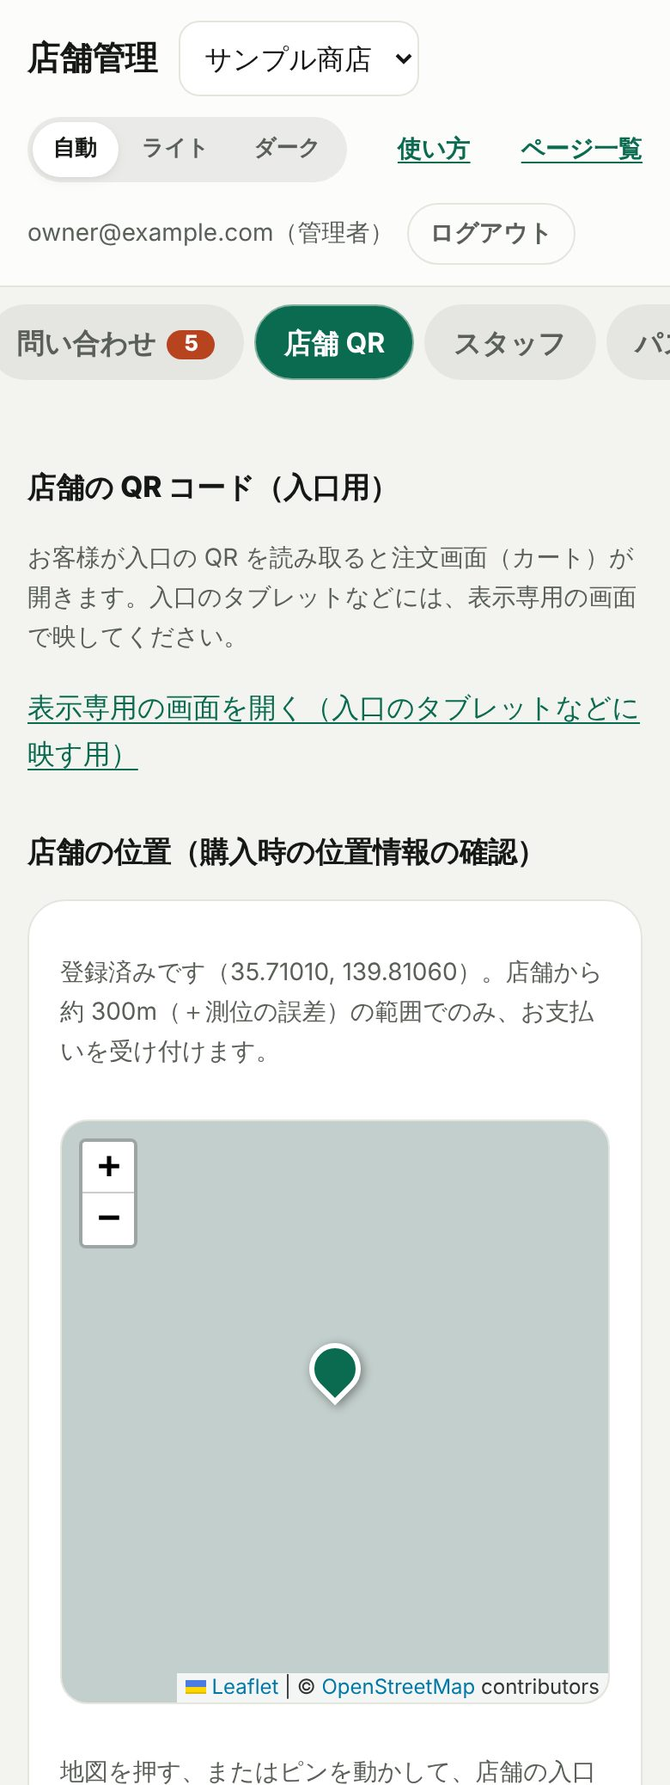
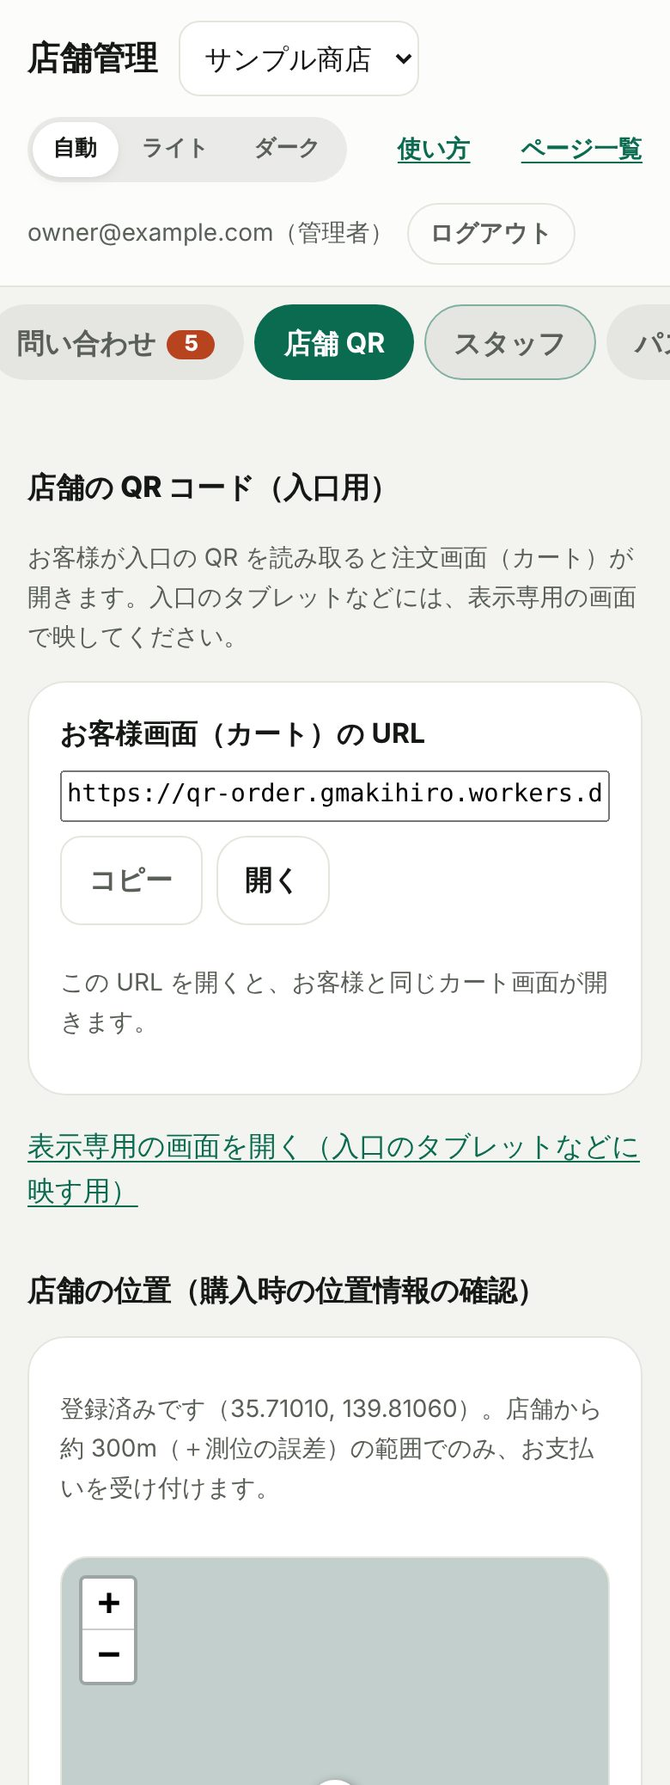
管理画面の「店舗 QR」に、お客様画面（カート）の URL を表示
- URL の表示とコピー・開くボタンを追加
- QR コードの定期更新が有効なときは、いま使える合言葉付きの URL をサーバーから取得し、自動で更新する（/api/staff/stores/:id/customer-url、ログインが必要）

Claude-Session: https://claude.ai/code/session_012T4cK7u5KBQXo3hkoPuLVW

diff --git a/src/guide-staff.html b/src/guide-staff.html
@@ -17,7 +17,7 @@
 <li><a href="#setup">はじめて使うとき（セットアップ）</a></li><li><a href="#login">ログイン</a></li><li><a href="#layout">画面の見方</a></li><li><a href="#orders">注文を確認する・年齢確認・返金</a></li><li><a href="#products">商品を登録する</a></li><li><a href="#qr">店舗の QR コード</a></li><li><a href="#accounts">スタッフを追加する（管理者）</a></li><li><a href="#passkeys">自分のパスキー</a></li><li><a href="#returns">返品・交換の申請を処理する</a></li><li><a href="#chat">お問い合わせに答える</a></li><li><a href="#roles">権限の違い</a></li><li><a href="#trouble">困ったときは</a></li></ol></nav>
 <h2 id="setup">1. はじめて使うとき（セットアップ）</h2>
 <p>ログインには、パスワードではなく<strong>パスキー</strong>（端末の指紋・顔・画面ロック）を使います。最初の 1 回だけ、メールで本人確認をしてからパスキーを登録します。管理者にメールアドレスを登録してもらってから、次の手順を行ってください。</p>
-<section class="step"><div class="step-text"><h3><span class="num">1</span>メールアドレスを入力する</h3><p><code>/staff/setup</code> を開き、登録されているメールアドレスを入力して「確認コードを送る」を押します。</p></div><div class="step-figs"><figure class="shot"><img src="/guide/img/s1-setup-email.jpg" width="780" height="1560" alt="メールアドレスの入力" loading="lazy"><figcaption>メールアドレスの入力</figcaption></figure></div></section><section class="step"><div class="step-text"><h3><span class="num">2</span>メールの確認コードを入力する</h3><p>件名「【店舗管理】確認コード」のメールが届きます。本文に書かれた 6 桁の数字を入力します。</p><ul><li>有効期限は 10 分です。5 回間違えると無効になるので、その場合は送り直してください。</li><li>届かないときは、迷惑メールフォルダと、アドレスの入力間違いを確認してください。</li><li>登録されていないアドレスには、メールは届きません。</li></ul></div><div class="step-figs"><figure class="shot"><img src="/guide/img/s2-setup-code.jpg" width="780" height="1560" alt="確認コードの入力" loading="lazy"><figcaption>確認コードの入力</figcaption></figure></div></section><section class="step"><div class="step-text"><h3><span class="num">3</span>パスキーを登録する</h3><p>「この端末にパスキーを登録する」を押すと、端末が指紋・顔・画面ロックでの確認を求めます。完了すると、そのまま管理画面に入ります。</p><ul><li>5 分以内に完了してください。</li><li>登録が済んだアドレスは、確認コードではログインできなくなります。次回からはパスキーだけを使います。</li></ul></div><div class="step-figs"><figure class="shot"><img src="/guide/img/s3-setup-passkey.jpg" width="780" height="1560" alt="パスキーの登録" loading="lazy"><figcaption>パスキーの登録</figcaption></figure></div></section><h2 id="login">2. ログイン</h2><section class="step"><div class="step-text"><h3><span class="num">1</span>パスキーでログインする</h3><p><code>/staff/login</code> を開き、「パスキーでログイン」を押して、指紋・顔・画面ロックで確認します。</p><ul><li>ログインは 12 時間で切れます。</li><li>別の端末で使いたいときは、「8. 自分のパスキー」の手順で端末を追加してください。</li></ul></div><div class="step-figs"><figure class="shot"><img src="/guide/img/s4-login.jpg" width="780" height="1560" alt="ログインの画面" loading="lazy"><figcaption>ログインの画面</figcaption></figure></div></section><h2 id="layout">3. 画面の見方</h2><section class="step"><div class="step-text"><h3><span class="num">★</span>メニューの切り替え</h3><p>メニューは「注文」「商品」「返品」「問い合わせ」「店舗 QR」「スタッフ」「パスキー」の 7 つです（「スタッフ」は管理者だけに表示されます）。</p><ul><li><strong>スマートフォン</strong>：上部のタブを押すか、画面を左右にフリックして切り替えます。</li><li><strong>パソコン</strong>：左側のメニューから選びます。一覧は複数の列で表示されます。</li><li>上部で店舗と、表示の明るさ（自動・ライト・ダーク）を切り替えられます。</li><li>「ホーム画面に追加」を押すと、アプリのようにアイコンから起動できます。</li></ul></div><div class="step-figs"><figure class="shot wide"><img src="/guide/img/s14-pc-orders.jpg" width="1280" height="800" alt="パソコンでの表示（注文）" loading="lazy"><figcaption>パソコンでの表示（注文）</figcaption></figure></div></section><h2 id="orders">4. 注文を確認する・年齢確認・返金</h2><p>お客様がお支払いを済ませた注文が、新しい順に並びます。商品の受け渡しの操作はありません。注文番号は毎日 001 から始まります。</p><section class="step"><div class="step-text"><h3><span class="num">1</span>年齢確認をする</h3><p>お酒・たばこなど年齢確認が必要な商品を含む注文は、一番上の「年齢確認が必要な注文」に表示され、メニューに件数が付きます。</p><ol><li>お客様の画面（年齢確認待ち）の注文番号と、一覧の番号を照らし合わせる。</li><li>身分証などで、20 歳以上であることを確認する。</li><li>「年齢を確認した」を押す。お客様の画面が「お支払い完了」に変わります。</li></ol><p>確認できない場合は販売できません。管理者が返金してください。</p></div><div class="step-figs"><figure class="shot"><img src="/guide/img/s5b-orders-age.jpg" width="780" height="1560" alt="年齢確認が必要な注文が上に出ます" loading="lazy"><figcaption>年齢確認が必要な注文が上に出ます</figcaption></figure></div></section><section class="step"><div class="step-text"><h3><span class="num">2</span>返金する（管理者）</h3><p>注文の「返金」を押し、金額を入力して「返金する」を押します。</p><ul><li>最初は、返金できる全額が入っています。一部だけ返す場合は、テンキーで金額を変えてください。</li><li>返金は取り消せません。決済に使われた支払方法へ返金されます。</li><li>全額を返し終えると、その注文は「返金済」になります。</li></ul></div><div class="step-figs"><figure class="shot"><img src="/guide/img/s6-refund.jpg" width="780" height="1560" alt="返金の金額を入力する" loading="lazy"><figcaption>返金の金額を入力する</figcaption></figure></div></section><h2 id="products">5. 商品を登録する</h2><p>商品の登録・編集・削除は管理者が行います。「有効／無効」の切り替え（品切れのとき）は、スタッフもできます。</p><section class="step"><div class="step-text"><h3><span class="num">1</span>登録フォームを開く</h3><p>「商品」のメニューを開くと、上に登録フォーム、下に商品一覧があります。</p><ul><li>入力するのは、バーコード（任意）、商品名、価格（税込）、税率、年齢確認が必要かどうかです。</li><li>価格は、画面のテンキーで入力します。50 円以上で設定してください。</li><li>持ち帰りの飲食料品などは、税率 8% を選びます。</li></ul></div><div class="step-figs"><figure class="shot"><img src="/guide/img/s7-product-form.jpg" width="780" height="1560" alt="商品の登録フォーム" loading="lazy"><figcaption>商品の登録フォーム</figcaption></figure></div></section><section class="step"><div class="step-text"><h3><span class="num">2</span>バーコードを読み取る</h3><p>「カメラで読み取る」を押し、商品のバーコードを明るい枠の中に写します。読み取ると音が鳴り、自動で閉じます。</p><ul><li>読み取りに成功すると、<strong>それまで入力していた商品名・価格などはすべて消えます</strong>。</li><li>線が読めないときは、下の数字を大きく写すと読み取れます。</li><li>数字を手で入力することもできます。</li></ul></div><div class="step-figs"><figure class="shot"><img src="/guide/img/s8-barcode-scan.jpg" width="780" height="1560" alt="バーコードの読み取り" loading="lazy"><figcaption>バーコードの読み取り</figcaption></figure></div></section><section class="step"><div class="step-text"><h3><span class="num">3</span>商品名と価格を入れて登録する</h3><p>商品情報が見つかった場合は、商品名が自動で入ります。見つからない場合は手で入力します。価格と税率を確認して「登録する」を押します。</p><ul><li>自動で入った商品名は、必ず確認して直してください（まとめ売りの名前などが入ることがあります）。</li><li>価格は自動では入りません。</li><li>登録済みのバーコードを読んだときは、「この商品を編集する」ボタンが出ます。</li></ul></div><div class="step-figs"><figure class="shot"><img src="/guide/img/s9-barcode-result.jpg" width="780" height="1560" alt="読み取り後に商品名と価格を入力" loading="lazy"><figcaption>読み取り後に商品名と価格を入力</figcaption></figure></div></section><section class="step"><div class="step-text"><h3><span class="num">4</span>商品一覧を使う</h3><p>登録した商品が、QR コードと一緒に並びます。</p><ul><li><strong>無効にする／有効にする</strong>：無効にした商品は、お客様が読み取ってもカートに入りません。</li><li><strong>編集</strong>：商品名・価格などを変えます。QR コードは変わりません。</li><li><strong>削除</strong>：元に戻せません。過去の注文の記録には影響しません。</li><li><strong>テスト用カート</strong>：一覧の上の「テスト用カート」で「QR をスキャンする」を押してから、商品の QR コードを押すと、その QR を実際に読み取ってカートに入れます。お客様のカートと同じ決まり（無効の商品は入らない、同じ商品は 1 回だけ、数量は「−」「＋」で 20 まで、税率ごとの消費税）を確かめられます。お支払いはできず、注文は作られません。スキャン中でないときに QR を押すと、これまでどおり印刷用に開きます。</li><li>QR コードを押すと、印刷用に大きく開きます。バーコードのない商品は、この QR コードを印刷して売り場に貼ってください。</li></ul></div><div class="step-figs"><figure class="shot"><img src="/guide/img/s10-product-list.jpg" width="780" height="1560" alt="商品一覧" loading="lazy"><figcaption>商品一覧</figcaption></figure><figure class="shot wide"><img src="/guide/img/s15-pc-products.jpg" width="1280" height="800" alt="パソコンでの表示（商品）" loading="lazy"><figcaption>パソコンでの表示（商品）</figcaption></figure></div></section><h2 id="qr">6. 店舗の QR コード</h2><section class="step"><div class="step-text"><h3><span class="num">1</span>入口用の QR コードと、更新の設定</h3><p>お客様が最初に読み取る QR コードです。管理画面には QR コードを表示しません。入口に映すときは、表示専用の画面を使います。</p><ul><li><strong>画面に映す</strong>：「表示専用の画面を開く」で、入口のタブレットなどに大きく映せます。</li><li><strong>QR コードの更新</strong>（管理者）：一定時間ごとに QR コードを新しくできます。有効にすると、古い QR の写真や保存したアドレスからは注文できなくなります。<strong>印刷した QR コードは使えなくなる</strong>ので、表示専用の画面を使ってください。商品のバーコードは、そのまま使えます。</li></ul></div><div class="step-figs"><figure class="shot"><img src="/guide/img/s11-store-qr.jpg" width="780" height="2076" alt="店舗 QR のメニュー（表示専用の画面と更新の設定）" loading="lazy"><figcaption>店舗 QR のメニュー（表示専用の画面と更新の設定）</figcaption></figure></div></section><h2 id="geo">店舗の位置（位置情報の確認）</h2><p>お客様は、お支払いと返品・交換の申し込みのときに、必ず位置情報の確認が必要です。「店舗 QR」のメニューの「店舗の位置」で、管理者が地図から登録します。地図を押すかピンを動かす、住所や店舗名で探す、Google マップ・Apple マップの共有リンク（または「35.7100, 139.8107」の形の座標）を貼り付ける、店内で「この端末の現在地へ」を押す、のどれかでピンを合わせ、「この位置で保存」を押します。登録すると、受け付ける範囲（50m〜1km）の外からはお支払いできなくなります。注文と返品の申し込みには、店舗からの距離が表示されます（位置そのものは保存しません）。屋内は誤差が大きいため、範囲は 200m 以上をおすすめします。</p><h2 id="accounts">7. スタッフを追加する（管理者）</h2><section class="step"><div class="step-text"><h3><span class="num">1</span>メールアドレスと権限を登録する</h3><p>「スタッフ」のメニューで、メールアドレスと権限を選んで「追加する」を押します。本人に案内メールが届くので、「1. はじめて使うとき」の手順でセットアップしてもらいます。</p><ul><li><strong>停止する</strong>：その人はすぐに使えなくなります。退職時などに使います。</li><li><strong>再セットアップ</strong>：端末をなくした・替えたときに押します。古いパスキーが無効になり、メールの確認コードで登録し直せるようになります。</li><li><strong>削除</strong>：アカウントを消します。最後の管理者は、停止・削除できません。</li></ul></div><div class="step-figs"><figure class="shot"><img src="/guide/img/s12-accounts.jpg" width="780" height="2446" alt="スタッフの追加と一覧" loading="lazy"><figcaption>スタッフの追加と一覧</figcaption></figure></div></section><h2 id="passkeys">8. 自分のパスキー</h2><section class="step"><div class="step-text"><h3><span class="num">1</span>予備の端末を登録する</h3><p>ログインに使える端末の一覧です。<strong>2 台以上を登録しておくと、1 台をなくしてもログインできます。</strong></p><ol><li>追加したい端末で、管理画面にログインする。同じ Google アカウントや Apple ID でパスキーが同期されている端末なら、そのままログインできます。</li><li>「パスキー」のメニューで「この端末を追加」を押す。</li></ol><p>同期されていない端末を使いたい場合は、管理者に「再セットアップ」を依頼してください。</p></div><div class="step-figs"><figure class="shot"><img src="/guide/img/s13-passkeys.jpg" width="780" height="1560" alt="登録済みのパスキー" loading="lazy"><figcaption>登録済みのパスキー</figcaption></figure></div></section><h2 id="returns">返品・交換の申請を処理する</h2><p>お客様が、購入完了メールや購入の証明の画面から、商品の不良・誤りなどを申し込むと、「返品」のメニューに届きます（件数がメニューに付き、LINE にも通知が届きます）。お客様のご都合による返品は、受け付けない前提です。</p><section class="step"><div class="step-text"><h3><span class="num">1</span>写真と説明を確認する</h3><p>申請の一覧に、注文番号、理由、対象の商品、説明、写真が並びます。写真を押すと大きく表示されます。</p><ul><li>「商品の全体」と、不具合の箇所・ラベルの写真で、申し出の内容が確認できるかを見ます。</li><li>期限切れの申し出は、ラベルの期限表示を確認します。</li><li>確認と決定は管理者が行います。スタッフは、見るだけです。</li></ul></div><div class="step-figs"><figure class="shot wide"><img src="/guide/img/s17-returns.jpg" width="1280" height="850" alt="返品・交換の申請の一覧" loading="lazy"><figcaption>返品・交換の申請の一覧</figcaption></figure></div></section><section class="step"><div class="step-text"><h3><span class="num">2</span>承認または却下する</h3><ul><li><strong>承認（返金）／承認（交換）</strong>：お客様の画面に「商品と購入の証明を持参してください」と表示されます。メッセージも添えられます。</li><li><strong>却下</strong>：理由のメッセージが必須です。お客様の画面に表示されます。</li></ul></div><div class="step-figs"></div></section><section class="step"><div class="step-text"><h3><span class="num">3</span>商品を回収して完了する</h3><p>お客様が商品を持参したら、商品を確認して「商品を回収して完了」を押します。</p><ul><li><strong>返金の場合</strong>：返金額（初期値は対象の商品の合計）を確認して「返金する」を押します。決済に使われた支払方法へすぐに返金され、取り消せません。</li><li><strong>交換の場合</strong>：交換を終えてから押します。</li></ul><p>申請の内容と写真は、完了または却下から 90 日後に自動で消えます。</p></div><div class="step-figs"></div></section><h2 id="chat">お問い合わせに答える</h2><p>お客様がチャットで送ったお問い合わせは、連携した LINE のトークに届きます。LINE を使えないときは、管理画面の「問い合わせ」からも確認・返信できます。</p><section class="step"><div class="step-text"><h3><span class="num">1</span>LINE で返信する</h3><p>お問い合わせが届くと、LINE に「【お問い合わせ #番号】」で始まるメッセージが届きます。</p><ol><li>お客様のメッセージを<strong>長押しして「リプライ」</strong>を選ぶ。</li><li>返信を入力して送信する。お客様の画面に表示されます。</li><li>「#番号 のお客様に送信しました」と返ってくれば、届いています。</li></ol><ul><li>リプライを使わない場合は、先頭に「#番号 」を付けて送ります（例: <code>#K7QD ありがとうございます</code>）。</li><li>お問い合わせが 1 件だけのときは、そのまま送っても届きます。</li><li>どのお客様宛てか分からないときは、送信されずに案内が返ってきます。</li></ul></div><div class="step-figs"></div></section><section class="step"><div class="step-text"><h3><span class="num">2</span>管理画面で確認・返信する</h3><p>「問い合わせ」のメニューに、やり取りが新しい順に並びます。返信待ちのものには印が付き、メニューに件数が出ます。押すと、やり取りの確認と返信ができます。</p><ul><li>やり取りは、最後のメッセージから 90 日で自動的に消えます。</li><li><strong>LINE との連携（管理者）</strong>：「連携コードを発行する」を押し、表示された「連携 123456」を、LINE 公式アカウントとのトーク（またはスタッフのグループ）で送信します。送信したトークが通知先になります。</li></ul></div><div class="step-figs"><figure class="shot"><img src="/guide/img/s16-chat.jpg" width="780" height="1560" alt="問い合わせの一覧と LINE の連携" loading="lazy"><figcaption>問い合わせの一覧と LINE の連携</figcaption></figure></div></section><h2 id="roles">9. 権限の違い</h2>
+<section class="step"><div class="step-text"><h3><span class="num">1</span>メールアドレスを入力する</h3><p><code>/staff/setup</code> を開き、登録されているメールアドレスを入力して「確認コードを送る」を押します。</p></div><div class="step-figs"><figure class="shot"><img src="/guide/img/s1-setup-email.jpg" width="780" height="1560" alt="メールアドレスの入力" loading="lazy"><figcaption>メールアドレスの入力</figcaption></figure></div></section><section class="step"><div class="step-text"><h3><span class="num">2</span>メールの確認コードを入力する</h3><p>件名「【店舗管理】確認コード」のメールが届きます。本文に書かれた 6 桁の数字を入力します。</p><ul><li>有効期限は 10 分です。5 回間違えると無効になるので、その場合は送り直してください。</li><li>届かないときは、迷惑メールフォルダと、アドレスの入力間違いを確認してください。</li><li>登録されていないアドレスには、メールは届きません。</li></ul></div><div class="step-figs"><figure class="shot"><img src="/guide/img/s2-setup-code.jpg" width="780" height="1560" alt="確認コードの入力" loading="lazy"><figcaption>確認コードの入力</figcaption></figure></div></section><section class="step"><div class="step-text"><h3><span class="num">3</span>パスキーを登録する</h3><p>「この端末にパスキーを登録する」を押すと、端末が指紋・顔・画面ロックでの確認を求めます。完了すると、そのまま管理画面に入ります。</p><ul><li>5 分以内に完了してください。</li><li>登録が済んだアドレスは、確認コードではログインできなくなります。次回からはパスキーだけを使います。</li></ul></div><div class="step-figs"><figure class="shot"><img src="/guide/img/s3-setup-passkey.jpg" width="780" height="1560" alt="パスキーの登録" loading="lazy"><figcaption>パスキーの登録</figcaption></figure></div></section><h2 id="login">2. ログイン</h2><section class="step"><div class="step-text"><h3><span class="num">1</span>パスキーでログインする</h3><p><code>/staff/login</code> を開き、「パスキーでログイン」を押して、指紋・顔・画面ロックで確認します。</p><ul><li>ログインは 12 時間で切れます。</li><li>別の端末で使いたいときは、「8. 自分のパスキー」の手順で端末を追加してください。</li></ul></div><div class="step-figs"><figure class="shot"><img src="/guide/img/s4-login.jpg" width="780" height="1560" alt="ログインの画面" loading="lazy"><figcaption>ログインの画面</figcaption></figure></div></section><h2 id="layout">3. 画面の見方</h2><section class="step"><div class="step-text"><h3><span class="num">★</span>メニューの切り替え</h3><p>メニューは「注文」「商品」「返品」「問い合わせ」「店舗 QR」「スタッフ」「パスキー」の 7 つです（「スタッフ」は管理者だけに表示されます）。</p><ul><li><strong>スマートフォン</strong>：上部のタブを押すか、画面を左右にフリックして切り替えます。</li><li><strong>パソコン</strong>：左側のメニューから選びます。一覧は複数の列で表示されます。</li><li>上部で店舗と、表示の明るさ（自動・ライト・ダーク）を切り替えられます。</li><li>「ホーム画面に追加」を押すと、アプリのようにアイコンから起動できます。</li></ul></div><div class="step-figs"><figure class="shot wide"><img src="/guide/img/s14-pc-orders.jpg" width="1280" height="800" alt="パソコンでの表示（注文）" loading="lazy"><figcaption>パソコンでの表示（注文）</figcaption></figure></div></section><h2 id="orders">4. 注文を確認する・年齢確認・返金</h2><p>お客様がお支払いを済ませた注文が、新しい順に並びます。商品の受け渡しの操作はありません。注文番号は毎日 001 から始まります。</p><section class="step"><div class="step-text"><h3><span class="num">1</span>年齢確認をする</h3><p>お酒・たばこなど年齢確認が必要な商品を含む注文は、一番上の「年齢確認が必要な注文」に表示され、メニューに件数が付きます。</p><ol><li>お客様の画面（年齢確認待ち）の注文番号と、一覧の番号を照らし合わせる。</li><li>身分証などで、20 歳以上であることを確認する。</li><li>「年齢を確認した」を押す。お客様の画面が「お支払い完了」に変わります。</li></ol><p>確認できない場合は販売できません。管理者が返金してください。</p></div><div class="step-figs"><figure class="shot"><img src="/guide/img/s5b-orders-age.jpg" width="780" height="1560" alt="年齢確認が必要な注文が上に出ます" loading="lazy"><figcaption>年齢確認が必要な注文が上に出ます</figcaption></figure></div></section><section class="step"><div class="step-text"><h3><span class="num">2</span>返金する（管理者）</h3><p>注文の「返金」を押し、金額を入力して「返金する」を押します。</p><ul><li>最初は、返金できる全額が入っています。一部だけ返す場合は、テンキーで金額を変えてください。</li><li>返金は取り消せません。決済に使われた支払方法へ返金されます。</li><li>全額を返し終えると、その注文は「返金済」になります。</li></ul></div><div class="step-figs"><figure class="shot"><img src="/guide/img/s6-refund.jpg" width="780" height="1560" alt="返金の金額を入力する" loading="lazy"><figcaption>返金の金額を入力する</figcaption></figure></div></section><h2 id="products">5. 商品を登録する</h2><p>商品の登録・編集・削除は管理者が行います。「有効／無効」の切り替え（品切れのとき）は、スタッフもできます。</p><section class="step"><div class="step-text"><h3><span class="num">1</span>登録フォームを開く</h3><p>「商品」のメニューを開くと、上に登録フォーム、下に商品一覧があります。</p><ul><li>入力するのは、バーコード（任意）、商品名、価格（税込）、税率、年齢確認が必要かどうかです。</li><li>価格は、画面のテンキーで入力します。50 円以上で設定してください。</li><li>持ち帰りの飲食料品などは、税率 8% を選びます。</li></ul></div><div class="step-figs"><figure class="shot"><img src="/guide/img/s7-product-form.jpg" width="780" height="1560" alt="商品の登録フォーム" loading="lazy"><figcaption>商品の登録フォーム</figcaption></figure></div></section><section class="step"><div class="step-text"><h3><span class="num">2</span>バーコードを読み取る</h3><p>「カメラで読み取る」を押し、商品のバーコードを明るい枠の中に写します。読み取ると音が鳴り、自動で閉じます。</p><ul><li>読み取りに成功すると、<strong>それまで入力していた商品名・価格などはすべて消えます</strong>。</li><li>線が読めないときは、下の数字を大きく写すと読み取れます。</li><li>数字を手で入力することもできます。</li></ul></div><div class="step-figs"><figure class="shot"><img src="/guide/img/s8-barcode-scan.jpg" width="780" height="1560" alt="バーコードの読み取り" loading="lazy"><figcaption>バーコードの読み取り</figcaption></figure></div></section><section class="step"><div class="step-text"><h3><span class="num">3</span>商品名と価格を入れて登録する</h3><p>商品情報が見つかった場合は、商品名が自動で入ります。見つからない場合は手で入力します。価格と税率を確認して「登録する」を押します。</p><ul><li>自動で入った商品名は、必ず確認して直してください（まとめ売りの名前などが入ることがあります）。</li><li>価格は自動では入りません。</li><li>登録済みのバーコードを読んだときは、「この商品を編集する」ボタンが出ます。</li></ul></div><div class="step-figs"><figure class="shot"><img src="/guide/img/s9-barcode-result.jpg" width="780" height="1560" alt="読み取り後に商品名と価格を入力" loading="lazy"><figcaption>読み取り後に商品名と価格を入力</figcaption></figure></div></section><section class="step"><div class="step-text"><h3><span class="num">4</span>商品一覧を使う</h3><p>登録した商品が、QR コードと一緒に並びます。</p><ul><li><strong>無効にする／有効にする</strong>：無効にした商品は、お客様が読み取ってもカートに入りません。</li><li><strong>編集</strong>：商品名・価格などを変えます。QR コードは変わりません。</li><li><strong>削除</strong>：元に戻せません。過去の注文の記録には影響しません。</li><li><strong>テスト用カート</strong>：一覧の上の「テスト用カート」で「QR をスキャンする」を押してから、商品の QR コードを押すと、その QR を実際に読み取ってカートに入れます。お客様のカートと同じ決まり（無効の商品は入らない、同じ商品は 1 回だけ、数量は「−」「＋」で 20 まで、税率ごとの消費税）を確かめられます。お支払いはできず、注文は作られません。スキャン中でないときに QR を押すと、これまでどおり印刷用に開きます。</li><li>QR コードを押すと、印刷用に大きく開きます。バーコードのない商品は、この QR コードを印刷して売り場に貼ってください。</li></ul></div><div class="step-figs"><figure class="shot"><img src="/guide/img/s10-product-list.jpg" width="780" height="1560" alt="商品一覧" loading="lazy"><figcaption>商品一覧</figcaption></figure><figure class="shot wide"><img src="/guide/img/s15-pc-products.jpg" width="1280" height="800" alt="パソコンでの表示（商品）" loading="lazy"><figcaption>パソコンでの表示（商品）</figcaption></figure></div></section><h2 id="qr">6. 店舗の QR コード</h2><section class="step"><div class="step-text"><h3><span class="num">1</span>入口用の QR コードと、更新の設定</h3><p>お客様が最初に読み取る QR コードです。管理画面には QR コードを表示しません。入口に映すときは、表示専用の画面を使います。</p><ul><li><strong>お客様画面の URL</strong>：お客様のカート画面の URL を表示します。「コピー」で貼り付けて使え、「開く」でお客様と同じ画面を開けます。QR コードの更新が有効なときは、いま使える URL に自動で変わります。</li><li><strong>画面に映す</strong>：「表示専用の画面を開く」で、入口のタブレットなどに大きく映せます。</li><li><strong>QR コードの更新</strong>（管理者）：一定時間ごとに QR コードを新しくできます。有効にすると、古い QR の写真や保存したアドレスからは注文できなくなります。<strong>印刷した QR コードは使えなくなる</strong>ので、表示専用の画面を使ってください。商品のバーコードは、そのまま使えます。</li></ul></div><div class="step-figs"><figure class="shot"><img src="/guide/img/s11-store-qr.jpg" width="780" height="2076" alt="店舗 QR のメニュー（表示専用の画面と更新の設定）" loading="lazy"><figcaption>店舗 QR のメニュー（表示専用の画面と更新の設定）</figcaption></figure></div></section><h2 id="geo">店舗の位置（位置情報の確認）</h2><p>お客様は、お支払いと返品・交換の申し込みのときに、必ず位置情報の確認が必要です。「店舗 QR」のメニューの「店舗の位置」で、管理者が地図から登録します。地図を押すかピンを動かす、住所や店舗名で探す、Google マップ・Apple マップの共有リンク（または「35.7100, 139.8107」の形の座標）を貼り付ける、店内で「この端末の現在地へ」を押す、のどれかでピンを合わせ、「この位置で保存」を押します。登録すると、受け付ける範囲（50m〜1km）の外からはお支払いできなくなります。注文と返品の申し込みには、店舗からの距離が表示されます（位置そのものは保存しません）。屋内は誤差が大きいため、範囲は 200m 以上をおすすめします。</p><h2 id="accounts">7. スタッフを追加する（管理者）</h2><section class="step"><div class="step-text"><h3><span class="num">1</span>メールアドレスと権限を登録する</h3><p>「スタッフ」のメニューで、メールアドレスと権限を選んで「追加する」を押します。本人に案内メールが届くので、「1. はじめて使うとき」の手順でセットアップしてもらいます。</p><ul><li><strong>停止する</strong>：その人はすぐに使えなくなります。退職時などに使います。</li><li><strong>再セットアップ</strong>：端末をなくした・替えたときに押します。古いパスキーが無効になり、メールの確認コードで登録し直せるようになります。</li><li><strong>削除</strong>：アカウントを消します。最後の管理者は、停止・削除できません。</li></ul></div><div class="step-figs"><figure class="shot"><img src="/guide/img/s12-accounts.jpg" width="780" height="2446" alt="スタッフの追加と一覧" loading="lazy"><figcaption>スタッフの追加と一覧</figcaption></figure></div></section><h2 id="passkeys">8. 自分のパスキー</h2><section class="step"><div class="step-text"><h3><span class="num">1</span>予備の端末を登録する</h3><p>ログインに使える端末の一覧です。<strong>2 台以上を登録しておくと、1 台をなくしてもログインできます。</strong></p><ol><li>追加したい端末で、管理画面にログインする。同じ Google アカウントや Apple ID でパスキーが同期されている端末なら、そのままログインできます。</li><li>「パスキー」のメニューで「この端末を追加」を押す。</li></ol><p>同期されていない端末を使いたい場合は、管理者に「再セットアップ」を依頼してください。</p></div><div class="step-figs"><figure class="shot"><img src="/guide/img/s13-passkeys.jpg" width="780" height="1560" alt="登録済みのパスキー" loading="lazy"><figcaption>登録済みのパスキー</figcaption></figure></div></section><h2 id="returns">返品・交換の申請を処理する</h2><p>お客様が、購入完了メールや購入の証明の画面から、商品の不良・誤りなどを申し込むと、「返品」のメニューに届きます（件数がメニューに付き、LINE にも通知が届きます）。お客様のご都合による返品は、受け付けない前提です。</p><section class="step"><div class="step-text"><h3><span class="num">1</span>写真と説明を確認する</h3><p>申請の一覧に、注文番号、理由、対象の商品、説明、写真が並びます。写真を押すと大きく表示されます。</p><ul><li>「商品の全体」と、不具合の箇所・ラベルの写真で、申し出の内容が確認できるかを見ます。</li><li>期限切れの申し出は、ラベルの期限表示を確認します。</li><li>確認と決定は管理者が行います。スタッフは、見るだけです。</li></ul></div><div class="step-figs"><figure class="shot wide"><img src="/guide/img/s17-returns.jpg" width="1280" height="850" alt="返品・交換の申請の一覧" loading="lazy"><figcaption>返品・交換の申請の一覧</figcaption></figure></div></section><section class="step"><div class="step-text"><h3><span class="num">2</span>承認または却下する</h3><ul><li><strong>承認（返金）／承認（交換）</strong>：お客様の画面に「商品と購入の証明を持参してください」と表示されます。メッセージも添えられます。</li><li><strong>却下</strong>：理由のメッセージが必須です。お客様の画面に表示されます。</li></ul></div><div class="step-figs"></div></section><section class="step"><div class="step-text"><h3><span class="num">3</span>商品を回収して完了する</h3><p>お客様が商品を持参したら、商品を確認して「商品を回収して完了」を押します。</p><ul><li><strong>返金の場合</strong>：返金額（初期値は対象の商品の合計）を確認して「返金する」を押します。決済に使われた支払方法へすぐに返金され、取り消せません。</li><li><strong>交換の場合</strong>：交換を終えてから押します。</li></ul><p>申請の内容と写真は、完了または却下から 90 日後に自動で消えます。</p></div><div class="step-figs"></div></section><h2 id="chat">お問い合わせに答える</h2><p>お客様がチャットで送ったお問い合わせは、連携した LINE のトークに届きます。LINE を使えないときは、管理画面の「問い合わせ」からも確認・返信できます。</p><section class="step"><div class="step-text"><h3><span class="num">1</span>LINE で返信する</h3><p>お問い合わせが届くと、LINE に「【お問い合わせ #番号】」で始まるメッセージが届きます。</p><ol><li>お客様のメッセージを<strong>長押しして「リプライ」</strong>を選ぶ。</li><li>返信を入力して送信する。お客様の画面に表示されます。</li><li>「#番号 のお客様に送信しました」と返ってくれば、届いています。</li></ol><ul><li>リプライを使わない場合は、先頭に「#番号 」を付けて送ります（例: <code>#K7QD ありがとうございます</code>）。</li><li>お問い合わせが 1 件だけのときは、そのまま送っても届きます。</li><li>どのお客様宛てか分からないときは、送信されずに案内が返ってきます。</li></ul></div><div class="step-figs"></div></section><section class="step"><div class="step-text"><h3><span class="num">2</span>管理画面で確認・返信する</h3><p>「問い合わせ」のメニューに、やり取りが新しい順に並びます。返信待ちのものには印が付き、メニューに件数が出ます。押すと、やり取りの確認と返信ができます。</p><ul><li>やり取りは、最後のメッセージから 90 日で自動的に消えます。</li><li><strong>LINE との連携（管理者）</strong>：「連携コードを発行する」を押し、表示された「連携 123456」を、LINE 公式アカウントとのトーク（またはスタッフのグループ）で送信します。送信したトークが通知先になります。</li></ul></div><div class="step-figs"><figure class="shot"><img src="/guide/img/s16-chat.jpg" width="780" height="1560" alt="問い合わせの一覧と LINE の連携" loading="lazy"><figcaption>問い合わせの一覧と LINE の連携</figcaption></figure></div></section><h2 id="roles">9. 権限の違い</h2>
 <table class="roles"><thead><tr><th>できること</th><th>スタッフ</th><th>管理者</th></tr></thead><tbody>
 <tr><td>注文の確認</td><td>○</td><td>○</td></tr>
 <tr><td>年齢確認</td><td>○</td><td>○</td></tr>

diff --git a/src/staff.html b/src/staff.html
@@ -138,6 +138,12 @@
 /* スキャン中：商品の QR を押すと読み取る */
 body.tc-scanning .product-admin img { cursor: crosshair; outline: 3px dashed var(--accent); outline-offset: 4px; border-radius: 6px; }
 body.tc-scanning #tc-scan { background: var(--warn); border-color: var(--warn); }
+
+/* お客様画面の URL */
+.customer-url { display: grid; gap: 8px; margin: 8px 0 12px; }
+.customer-url .actions { display: flex; gap: 8px; flex-wrap: wrap; }
+.customer-url input { flex: 1 1 240px; min-width: 0; font-family: ui-monospace, Menlo, monospace; font-size: .9rem; }
+.customer-url .button-link { display: inline-flex; align-items: center; }
 </style>
 </head>
 <body>
@@ -256,6 +262,11 @@ body.tc-scanning #tc-scan { background: var(--warn); border-color: var(--warn); 
     <section data-panel="qr" hidden>
       <h2>店舗の QR コード（入口用）</h2>
       <p class="note">お客様が入口の QR を読み取ると注文画面（カート）が開きます。入口のタブレットなどには、表示専用の画面で映してください。</p>
+      <div class="card customer-url">
+        <label for="customer-url"><strong>お客様画面（カート）の URL</strong></label>
+        <div class="actions"><input id="customer-url" type="text" readonly><button id="customer-url-copy" type="button" class="ghost">コピー</button><a id="customer-url-open" class="button-link" href="#" target="_blank" rel="noopener">開く</a></div>
+        <p id="customer-url-note" class="note"></p>
+      </div>
       <p><a id="display-link" href="#" target="_blank" rel="noopener">表示専用の画面を開く（入口のタブレットなどに映す用）</a></p>
 
       <h2>店舗の位置（購入時の位置情報の確認）</h2>
@@ -1234,6 +1245,7 @@ $('qr-rotation').onchange = async () => {
   }
   showRotation();
   reloadQrImages();
+  loadCustomerUrl();
 };
 
 // ---------- 店舗の位置（地図で選ぶ） ----------
@@ -1347,8 +1359,30 @@ $('geo-paste-form').onsubmit = async (ev) => {
   $('geo-paste').value = '';
 };
 
+// お客様画面（カート）の URL を表示する（QR の定期更新中は、いま使える URL を取り直す）
+async function loadCustomerUrl() {
+  const id = $('store').value;
+  if (!id) return;
+  try {
+    const { url, rotateMinutes: m } = await api('/api/staff/stores/' + encodeURIComponent(id) + '/customer-url');
+    if (id !== $('store').value) return;
+    $('customer-url').value = url;
+    $('customer-url-open').href = url;
+    $('customer-url-note').textContent = m > 0
+      ? 'QR コードの更新が有効なため、この URL は約 ' + m + ' 分ごとに変わります（表示は自動で更新されます）。古い URL からは注文できません。'
+      : 'この URL を開くと、お客様と同じカート画面が開きます。';
+  } catch { $('customer-url-note').textContent = 'URL を取得できませんでした。'; }
+}
+$('customer-url-copy').onclick = async () => {
+  try { await navigator.clipboard.writeText($('customer-url').value); $('customer-url-copy').textContent = 'コピーしました'; }
+  catch { $('customer-url').select(); document.execCommand && document.execCommand('copy'); $('customer-url-copy').textContent = 'コピーしました'; }
+  setTimeout(() => { $('customer-url-copy').textContent = 'コピー'; }, 2000);
+};
+$('customer-url').onfocus = () => $('customer-url').select();
+
 function setStore() {
   const s = encodeURIComponent($('store').value);
+  loadCustomerUrl();
   $('display-link').href = '/staff/display?store=' + s;
   showRotation();
   resetGeoMap();
@@ -1379,7 +1413,7 @@ $('logout').onclick = async () => { try { await post('/api/staff/logout'); } cat
   loadReturns();
   setInterval(loadChat, 6000); // 返信待ちの件数と一覧を更新する
   setInterval(loadReturns, 6000);
-  setInterval(() => { if (rotateMinutes() > 0) reloadQrImages(); }, 15000);
+  setInterval(() => { if (rotateMinutes() > 0) { reloadQrImages(); loadCustomerUrl(); } }, 15000);
 })();
 </script>
 </body>

diff --git a/src/index.ts b/src/index.ts
@@ -1259,6 +1259,14 @@ function qrSvg(c: C, url: string) {
   return c.body(qr.createSvgTag({ cellSize: 8, margin: 32, scalable: true }), 200, { 'Content-Type': 'image/svg+xml', 'Cache-Control': 'no-store' });
 }
 
+// お客様画面（カート）の URL。QR の定期更新が有効なら、いま使える合言葉付きの URL を返す
+app.get('/api/staff/stores/:id/customer-url', async (c) => {
+  const store = await getStoreQr(c.env, c.req.param('id'));
+  if (!store) return c.json({ error: 'store_not_found' }, 404);
+  c.header('Cache-Control', 'no-store');
+  return c.json({ url: await qrUrl(new URL(c.req.url).origin, store), rotateMinutes: store.qr_rotate_minutes });
+});
+
 app.get('/staff/qr.svg', async (c) => {
   const store = await getStoreQr(c.env, c.req.query('store') ?? '');
   if (!store) return c.text('store not found', 404);
